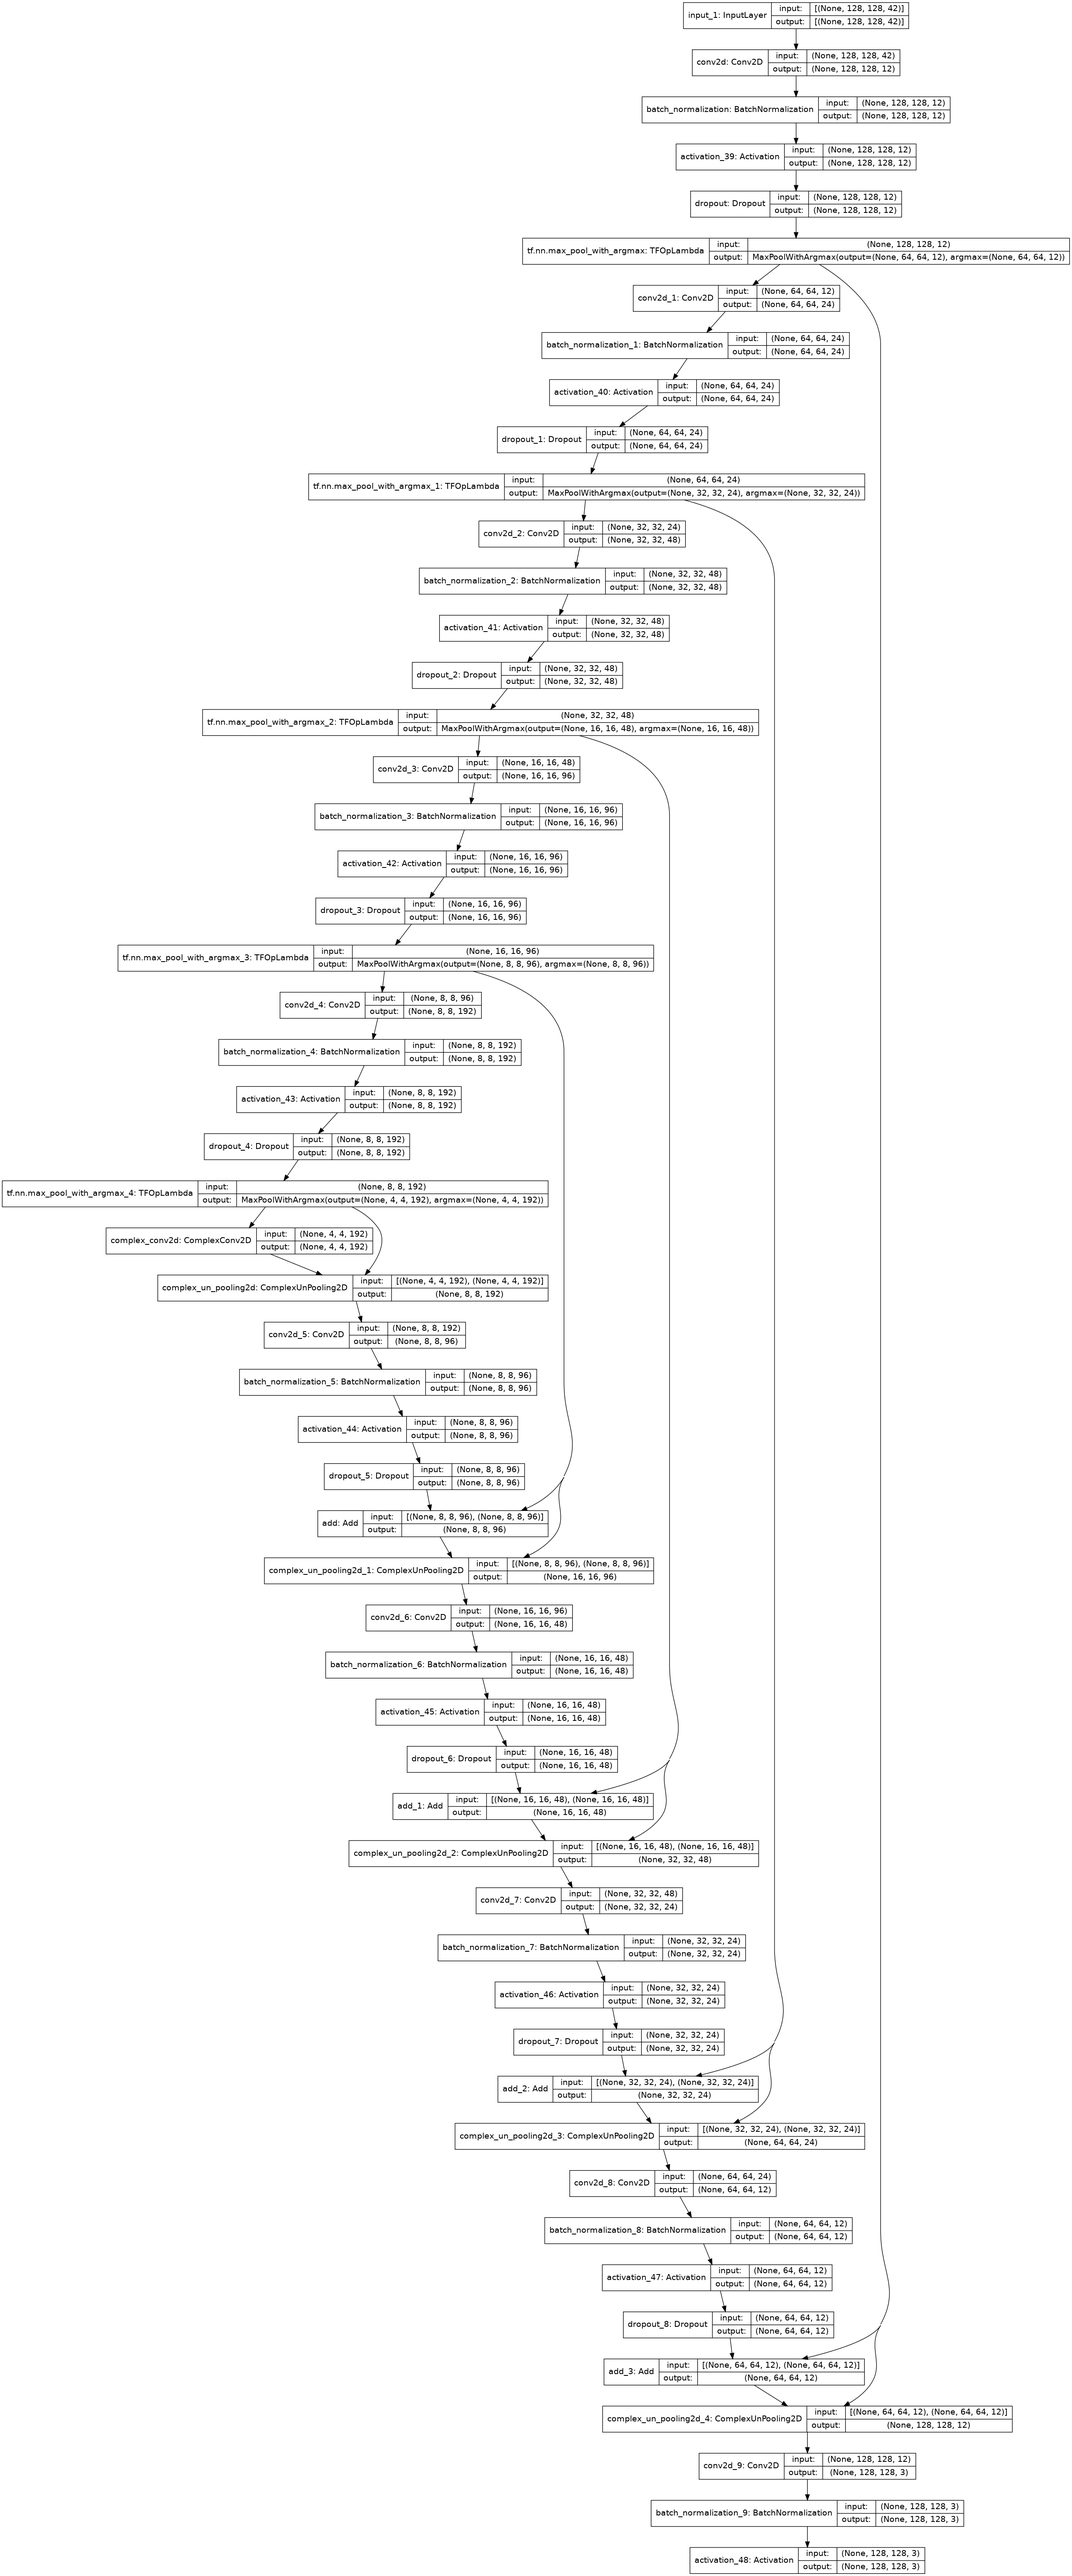
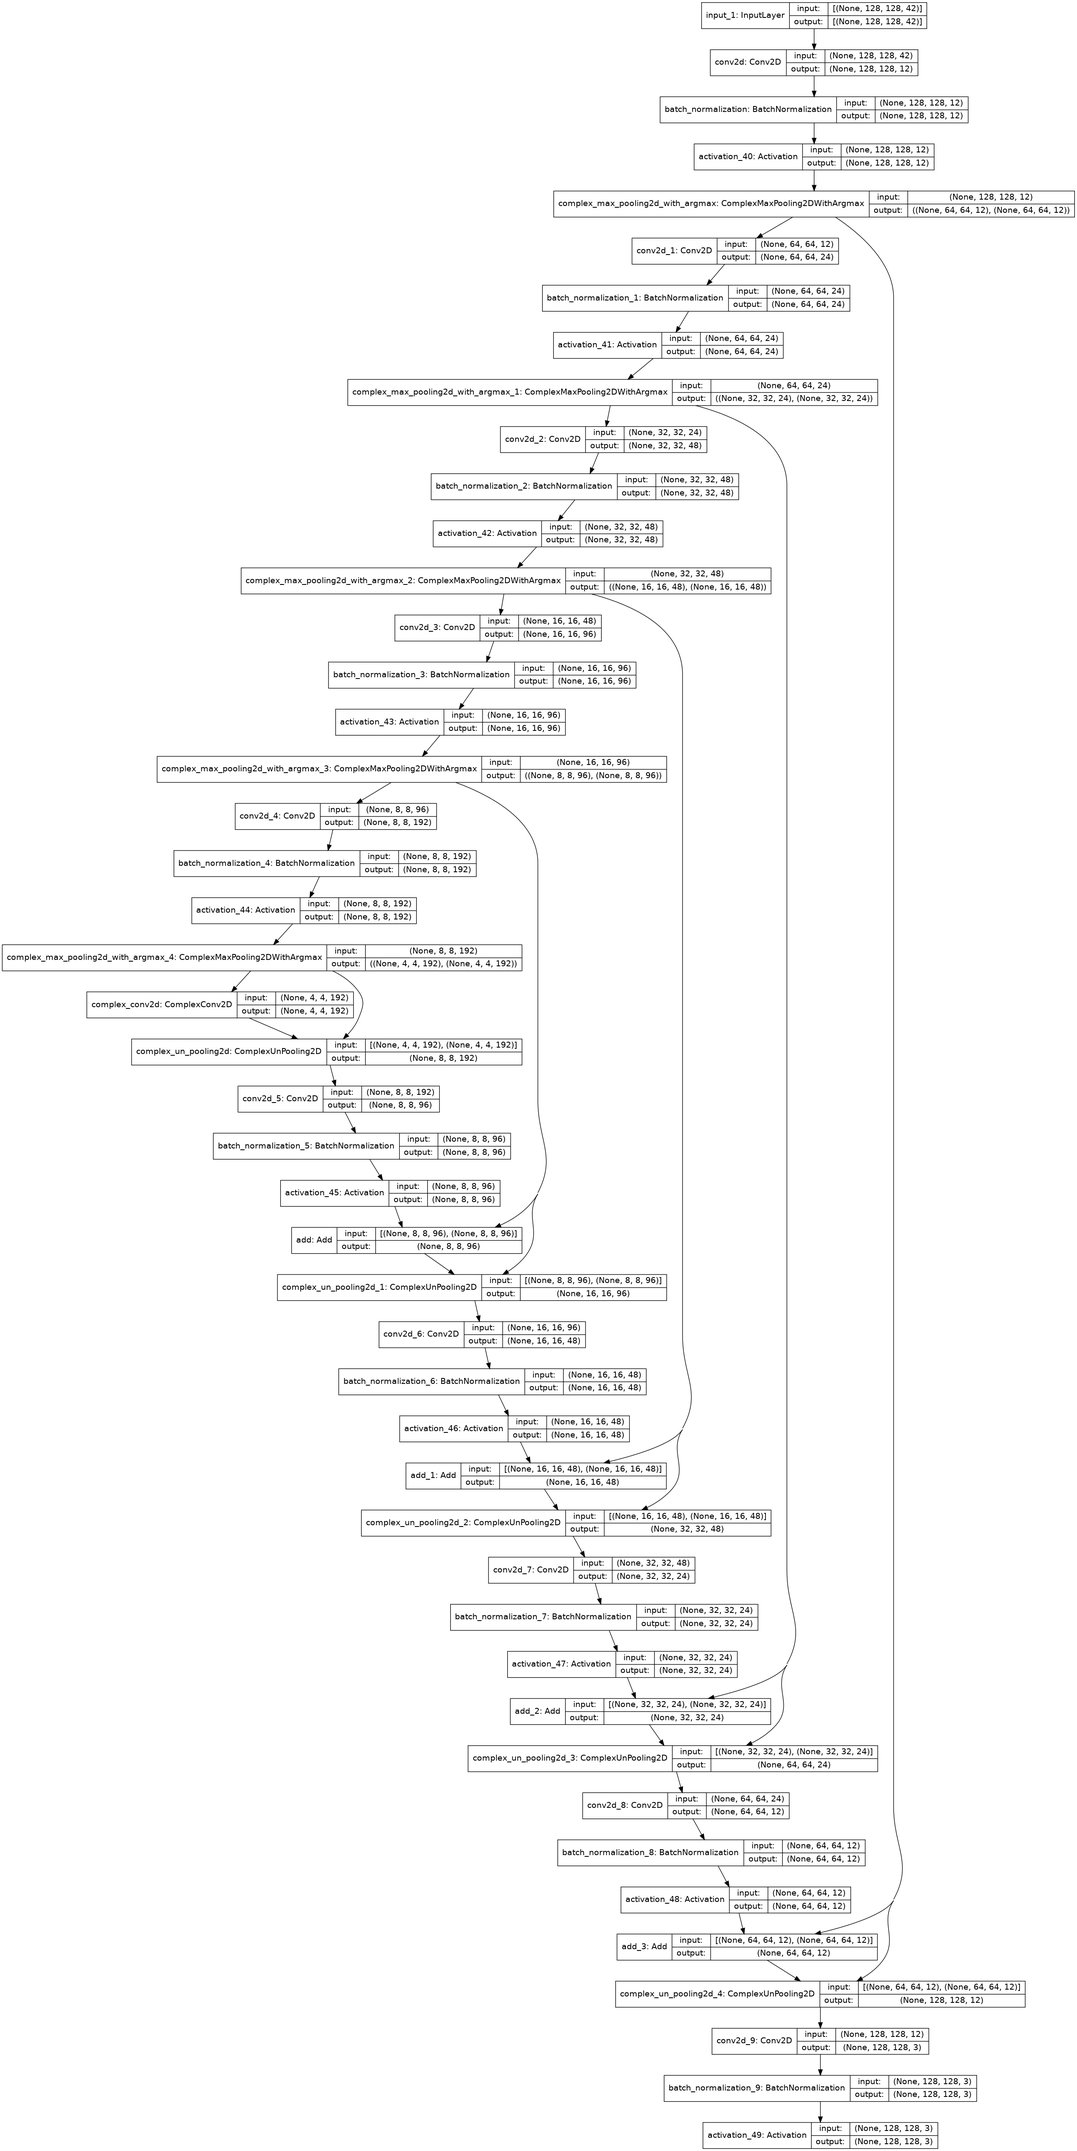
again debug mode with 200 epochs

Changed region(s): [[0.0, 0.0, 0.9909, 1.0]]

diff --git a/PolSar/cao_fcnn.py b/PolSar/cao_fcnn.py
@@ -177,10 +177,8 @@ def _get_mixed_up(input_to_block, pool_argmax, kernels,
     conv = ComplexConv2D(kernels, cao_params_model['kernel_shape'],
                          activation='linear', padding=cao_params_model['padding'],
                          kernel_initializer=cao_params_model['init'], dtype=dtype)(unpool)
-    conv = ComplexBatchNormalization(dtype=dtype)(conv)
+    conv = BatchNormalization()(conv)
     conv = Activation(activation)(conv)
-    if dropout:
-        conv = ComplexDropout(cao_params_model['dropout'])(conv)
     return conv
 
 
@@ -188,9 +186,8 @@ def _get_mixed_down(input_to_block, num: int, dtype=np.complex64):
     conv = ComplexConv2D(cao_params_model['kernels'][num], cao_params_model['kernel_shape'],
                          activation='linear', padding=cao_params_model['padding'],
                          kernel_initializer=cao_params_model['init'], dtype=dtype)(input_to_block)
-    conv = ComplexBatchNormalization(dtype=dtype)(conv)
+    conv = BatchNormalization()(conv)
     conv = Activation(cao_params_model['activation'])(conv)
-    conv = ComplexDropout(cao_params_model['dropout'])(conv)
     pool, pool_argmax = ComplexMaxPooling2DWithArgmax(cao_params_model['max_pool_kernel'],
                                                       strides=cao_params_model['stride'])(conv)
     return pool, pool_argmax
@@ -260,8 +257,8 @@ def get_debug_tf_models(input_shape=(IMG_HEIGHT, IMG_WIDTH, 3), indx=-1):
                                dtype=tf.float32, name="mixed_downsampling")
     elif indx == 9:
         in1 = complex_input(shape=input_shape, dtype=tf.float32)
-        model = _get_cao_model(in1, _get_mixed_down, _get_mixed_up,
-                               dtype=tf.float32, name="mixed_ipsampling")
+        model = _get_cao_model(in1, _get_downsampling_block, _get_mixed_up,
+                               dtype=tf.float32, name="mixed_upsampling")
     elif indx == 10:
         in1 = complex_input(shape=input_shape, dtype=tf.float32)
         model = _get_cao_model(in1, _get_mixed_down, _get_mixed_up,

diff --git a/PolSar/Oberpfaffenhofen/main.py b/PolSar/Oberpfaffenhofen/main.py
@@ -73,9 +73,9 @@ def run_model(complex_mode=True, tensorflow=False):
     start = time()
     history = model.fit(x=train_dataset, epochs=cao_fit_parameters['epochs'],
                         validation_data=test_dataset, shuffle=True, callbacks=callbacks)
+    stop = time()
     with open(temp_path / 'history_dict', 'wb') as file_pi:
         pickle.dump(history.history, file_pi)
-    stop = time()
     return secondsToStr(stop - start)
 
 
@@ -121,7 +121,7 @@ def debug_models(indx):
     try:
         callbacks, temp_path = get_checkpoints_list()
         # plot_model(model, to_file=temp_path / "model.png", show_shapes=True)
-        history = model.fit(x=train_dataset, epochs=20, validation_data=test_dataset, shuffle=True, callbacks=callbacks)
+        history = model.fit(x=train_dataset, epochs=200, validation_data=test_dataset, shuffle=True, callbacks=callbacks)
         with open(temp_path / 'history_dict', 'wb') as file_pi:
             pickle.dump(history.history, file_pi)
     except Exception as e:
@@ -132,7 +132,7 @@ def debug_models(indx):
 
 if __name__ == "__main__":
     # run_model(complex_mode=False, tensorflow=True)
-    train_model()
-    # args = sys.argv
-    # debug_models(int(args[1]))
+    # train_model()
+    args = sys.argv
+    debug_models(int(args[1]))
     # open_saved_models("/home/barrachina/Documents/onera/src/PolSar/Oberpfaffenhofen/u-net/log/2021/05May/12Wednesday/run-19h55m20/checkpoints/cp.ckpt")
